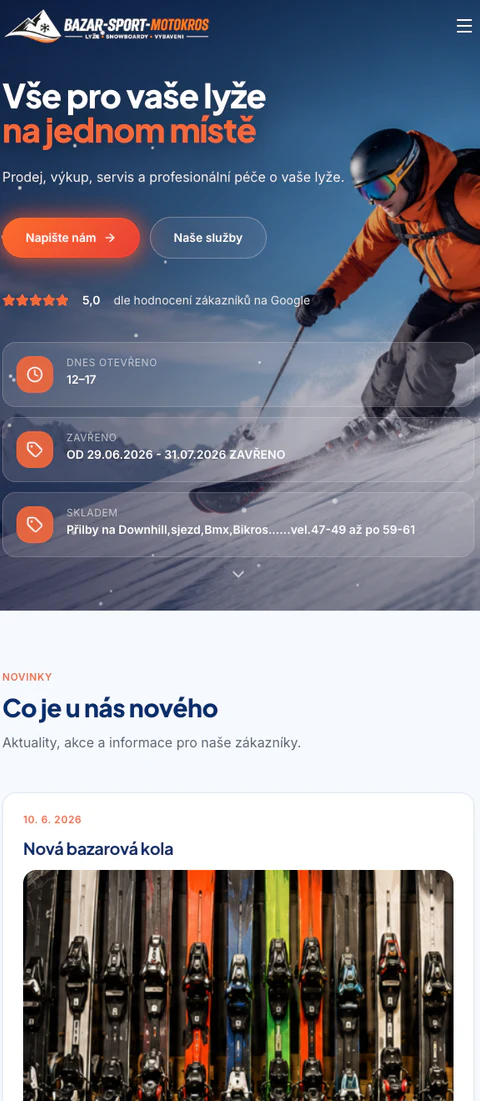
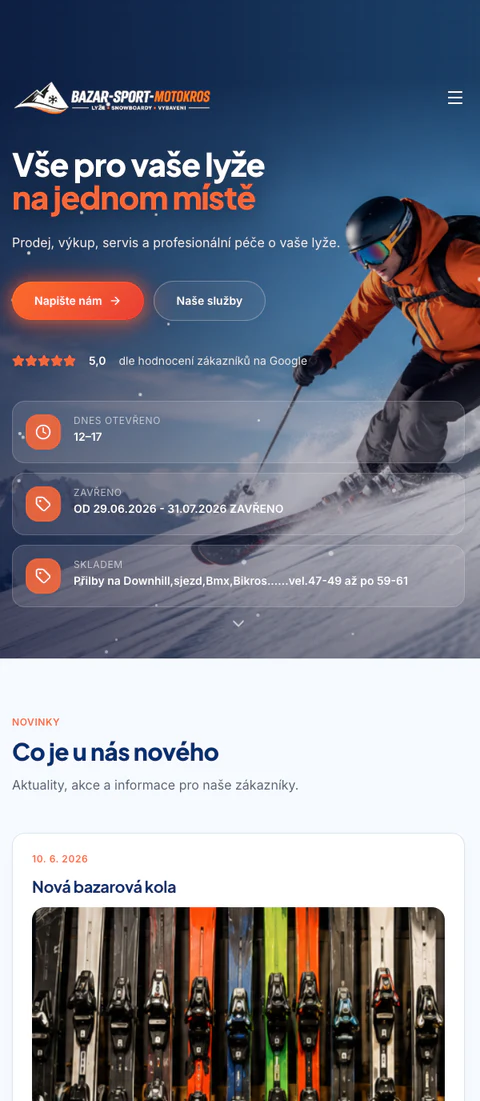
Version_3.96

diff --git a/src/screens/AiLandingPage/sections/PrototypeShowcaseSection/PrototypeShowcaseSection.tsx b/src/screens/AiLandingPage/sections/PrototypeShowcaseSection/PrototypeShowcaseSection.tsx
@@ -23,15 +23,13 @@ type PreviewChrome = "on-dark" | "on-light";
 const PREVIEW_CHROME_FALLBACK: Record<string, PreviewChrome> = {
   profitherm: "on-dark",
   "black-beard": "on-dark",
-  dentio: "on-light",
-  "jan-novak": "on-dark",
-  "vas-financni-partner": "on-light",
   "bazar-sport-motokros": "on-light",
 };
 
 /** Per-prototype chrome pinned over thumbnail luminance detection. */
 const PREVIEW_CHROME_OVERRIDE: Partial<Record<string, PreviewChrome>> = {
   "bazar-sport-motokros": "on-light",
+  "black-beard": "on-dark",
 };
 
 const detectPreviewChromeFromImage = (imageId: string): Promise<PreviewChrome> =>
@@ -70,7 +68,6 @@ const detectPreviewChromeFromImage = (imageId: string): Promise<PreviewChrome> =
 
 type PrototypeCard = {
   title: string;
-  badge: string;
   description: string;
   imageId: string;
   previewUrl: string;
@@ -85,102 +82,48 @@ const isPreviewMobileScreen = (): boolean =>
 const cards: PrototypeCard[] = [
   {
     title: "Profitherm Solution",
-    badge: "Rekonstrukce",
     description:
       "Web zaměřený na dotační programy a rekonstrukce domů na klíč. Jasně vysvětluje služby, buduje důvěru a pomáhá přivádět kvalitní poptávky od majitelů nemovitostí.",
     imageId: "profitherm",
     previewUrl: "https://profithermsolution.cz/",
   },
   {
+    title: "TRIFER",
+    description:
+      "Web pro společnost zaměřenou na výrobu a montáž ocelových konstrukcí pro firmy i soukromé zákazníky. Moderní prezentace služeb s důrazem na získávání nových poptávek.",
+    imageId: "black-beard",
+    previewUrl: "https://laser-steel-structures.vercel.app/",
+  },
+  {
     title: "Bazar-Sport-Motokros",
-    badge: "Sport",
     description:
       "Web pro sportovní bazar se zaměřením hlavně na lyže a zimní výbavu, v létě doplněný o kola a cyklistiku. Přehledná nabídka sortimentu podle sezóny a snadný nákup pro aktivní zákazníky.",
     imageId: "bazar-sport-motokros",
     previewUrl: "https://ski-spot-landing.vercel.app/",
-  },
-  {
-    title: "Dentio",
-    badge: "Zubní ordinace",
-    description:
-      "Profesionální prezentace pro zubaře a dentální hygienisty. Přehledné služby, moderní vizuál a snadný kontakt pomáhají pacientům rychle objednat termín a posílit důvěru v ordinaci.",
-    imageId: "dentio",
-    previewUrl: "https://dentio.vercel.app/",
-  },
-  {
-    title: "Jan Novák",
-    badge: "Fitness",
-    description:
-      "Dynamický web zaměřený na osobní značku trenéra a získávání rezervací. Přehledné sekce, silný vizuál a důraz na výsledky klientů pomáhají zvýšit počet nových zájemců.",
-    imageId: "jan-novak",
-    previewUrl: "https://fitness-trainer-alpha.vercel.app/",
-  },
-  {
-    title: "Váš finanční partner",
-    badge: "Finance",
-    description:
-      "Web vytvořený pro profesionální prezentaci finančních služeb a budování důvěry. Pomáhá jednoduše vysvětlit nabídku a přivádět nové klienty přes kvalitní poptávky.",
-    imageId: "vas-financni-partner",
-    previewUrl: "https://financni-partner-demo.vercel.app/",
-  },
-  {
-    title: "Black Beard",
-    badge: "Barbershop",
-    description:
-      "Stylový web pro pánský barbershop s důrazem na atmosféru a řemeslo. Prezentuje služby, ceník a rezervace tak, aby zákazníci snadno našli termín a vraceli se pravidelně.",
-    imageId: "black-beard",
-    previewUrl: "https://black-beard-chi.vercel.app/",
   },
 ];
 
 const cardsEn: PrototypeCard[] = [
   {
     title: "Profitherm Solution",
-    badge: "Renovation",
     description:
       "A website focused on grant programs and turnkey home renovations. It explains services clearly, builds trust, and brings quality inquiries from property owners.",
     imageId: "profitherm",
     previewUrl: "https://profithermsolution.cz/",
   },
   {
+    title: "TRIFER",
+    description:
+      "A website for a company specializing in the manufacture and assembly of steel structures for businesses and private clients. A modern presentation of services focused on generating new inquiries.",
+    imageId: "black-beard",
+    previewUrl: "https://laser-steel-structures.vercel.app/",
+  },
+  {
     title: "Bazar-Sport-Motokros",
-    badge: "Sport",
     description:
       "A sports shop site focused mainly on skis and winter gear, with bikes and cycling equipment in summer. Clear seasonal ranges and straightforward shopping for active customers year-round.",
     imageId: "bazar-sport-motokros",
     previewUrl: "https://ski-spot-landing.vercel.app/",
-  },
-  {
-    title: "Dentio",
-    badge: "Dental",
-    description:
-      "A professional presentation for dentists and dental hygienists. Clear services, a modern look, and easy contact help patients book faster and trust the practice.",
-    imageId: "dentio",
-    previewUrl: "https://dentio.vercel.app/",
-  },
-  {
-    title: "Jan Novák",
-    badge: "Fitness",
-    description:
-      "A dynamic website focused on the trainer’s personal brand and booking growth. Strong visuals and clear sections help turn visitors into new inquiries.",
-    imageId: "jan-novak",
-    previewUrl: "https://fitness-trainer-alpha.vercel.app/",
-  },
-  {
-    title: "Your financial partner",
-    badge: "Finance",
-    description:
-      "A website built for a professional financial services presentation and trust-building. It explains the offer clearly and brings new clients through high-quality inquiries.",
-    imageId: "vas-financni-partner",
-    previewUrl: "https://financni-partner-demo.vercel.app/",
-  },
-  {
-    title: "Black Beard",
-    badge: "Barbershop",
-    description:
-      "A stylish website for a men’s barbershop with a focus on atmosphere and craft. It showcases services, pricing, and booking so clients find a slot and keep coming back.",
-    imageId: "black-beard",
-    previewUrl: "https://black-beard-chi.vercel.app/",
   },
 ];
 
@@ -223,7 +166,6 @@ const PrototypeShowcaseMobileCard = ({
       </div>
       <div className="prototype-mobile-heading">
         <h3 className="prototype-mobile-title">{card.title}</h3>
-        <span className="prototype-item-badge">{card.badge}</span>
       </div>
       <p className="prototype-mobile-body">{card.description}</p>
     </article>
@@ -268,7 +210,6 @@ const PrototypeShowcaseItem = ({
       </div>
       <div className="prototype-item-heading">
         <h3 className="prototype-item-title">{card.title}</h3>
-        <span className="prototype-item-badge">{card.badge}</span>
       </div>
       <p className="prototype-item-desc">{card.description}</p>
     </article>
@@ -280,9 +221,9 @@ export const PrototypeShowcaseSection = (): JSX.Element => {
   const isEn = language === "en";
   const t = isEn
     ? {
-        heading: "Get a free website design in 3 days",
+        heading: "Completed website showcases",
         subheading:
-          "Browse sample prototypes and get a sense of the quality you'll receive free of charge within 3 days. I'll create your design tailored to your business, and if you're happy with it, I'll turn it into a professional website ready to represent your brand at the highest level.",
+          "Real projects from concept to launch. Every website is designed for a specific business and its customers.",
         previewBack: "Back to showcase",
         previewBackShort: "Back",
         viewportDesktop: "Desktop layout",
@@ -291,9 +232,9 @@ export const PrototypeShowcaseSection = (): JSX.Element => {
         previewHint: "Tap for preview",
       }
     : {
-        heading: "Návrh webu zdarma do 3 dnů",
+        heading: "Ukázky hotových webů",
         subheading:
-          "Prohlédněte si ukázkové prototypy a udělejte si představu o kvalitě zpracování, kterou zdarma získáte do 3 dnů. Váš návrh vytvořím na míru vašemu podnikání a pokud budete spokojeni, proměním jej v profesionální web připravený reprezentovat vaši značku na nejvyšší úrovni.",
+          "Ukázky reálných projektů od návrhu až po finální spuštění. Každý web navrhujeme na míru konkrétnímu podnikání a jeho zákazníkům.",
         previewBack: "Zpět na ukázky",
         previewBackShort: "Zpět",
         viewportDesktop: "Rozložení pro počítač",
@@ -521,7 +462,7 @@ export const PrototypeShowcaseSection = (): JSX.Element => {
           </div>
           </div>
 
-          <div className="prototype-mobile-dots" role="tablist" aria-label={isEn ? "Prototype slides" : "Prototypy"}>
+          <div className="prototype-mobile-dots" role="tablist" aria-label={isEn ? "Website showcases" : "Ukázky webů"}>
             {activeCards.map((_, i) => (
               <button
                 key={i}
@@ -619,7 +560,12 @@ export const PrototypeShowcaseSection = (): JSX.Element => {
             padding-top: 30px !important;
           }
           .prototype-section-sub{
-            max-width: 100%;
+            max-width: 820px;
+          }
+          .prototype-grid{
+            gap: 40px;
+            max-width: 1280px;
+            margin: 0 auto;
           }
         }
         .prototype-grid{
@@ -643,6 +589,7 @@ export const PrototypeShowcaseSection = (): JSX.Element => {
           cursor: pointer;
           -webkit-tap-highlight-color: transparent;
           transition: transform 0.45s cubic-bezier(0.22, 1, 0.36, 1);
+          text-align: center;
         }
         @media (min-width: 901px) {
           .prototype-grid-desktop .prototype-item{
@@ -716,7 +663,7 @@ export const PrototypeShowcaseSection = (): JSX.Element => {
         .prototype-item-heading{
           display: flex;
           align-items: center;
-          justify-content: space-between;
+          justify-content: center;
           gap: 12px;
           width: 100%;
         }
@@ -728,26 +675,9 @@ export const PrototypeShowcaseSection = (): JSX.Element => {
           line-height: 1.2;
           letter-spacing: -0.02em;
           color: var(--pk-ink);
-          text-align: left;
+          text-align: center;
           flex: 1 1 auto;
           min-width: 0;
-        }
-        .prototype-item-badge{
-          flex: 0 0 auto;
-          display: inline-flex;
-          align-items: center;
-          justify-content: center;
-          padding: 6px 12px;
-          border-radius: 999px;
-          font-family: "Montserrat", sans-serif;
-          font-weight: 700;
-          font-size: 12px;
-          line-height: 1;
-          letter-spacing: 0.02em;
-          color: var(--pk-ink);
-          background: var(--pk-slate-tint-06);
-          border: 1px solid var(--pk-slate-tint-16);
-          white-space: nowrap;
         }
         .prototype-item-desc{
           margin: 0;
@@ -756,7 +686,7 @@ export const PrototypeShowcaseSection = (): JSX.Element => {
           font-size: 14px;
           line-height: 1.65;
           color: var(--pk-ink);
-          text-align: left;
+          text-align: center;
         }
         .prototype-preview-overlay{
           position: fixed;
@@ -1041,7 +971,7 @@ export const PrototypeShowcaseSection = (): JSX.Element => {
               0 4px 12px rgb(15 23 42 / 0.07);
             cursor: pointer;
             -webkit-tap-highlight-color: transparent;
-            text-align: left;
+            text-align: center;
           }
           .prototype-mobile-card:focus-visible{
             outline: 2px solid var(--pk-accent);
@@ -1124,7 +1054,7 @@ export const PrototypeShowcaseSection = (): JSX.Element => {
           .prototype-mobile-heading{
             display: flex;
             align-items: center;
-            justify-content: space-between;
+            justify-content: center;
             gap: 10px;
             margin: 0 0 8px;
           }
@@ -1138,7 +1068,7 @@ export const PrototypeShowcaseSection = (): JSX.Element => {
             color: var(--pk-ink);
             flex: 1 1 auto;
             min-width: 0;
-            text-align: left;
+            text-align: center;
           }
           .prototype-mobile-body{
             margin: 0;
@@ -1147,6 +1077,7 @@ export const PrototypeShowcaseSection = (): JSX.Element => {
             font-size: 14px;
             line-height: 1.55;
             color: var(--pk-ink);
+            text-align: center;
           }
           .prototype-mobile-dots{
             display: flex;

diff --git a/src/screens/AiLandingPage/sections/MainHeroSection/HeroCompositeFrame.tsx b/src/screens/AiLandingPage/sections/MainHeroSection/HeroCompositeFrame.tsx
@@ -41,12 +41,29 @@ const shotLayerStyle: CSSProperties = {
   imageRendering: "auto",
 };
 
+/** Fit mobile shot to slot width; keep aspect ratio; pin to existing bottom edge. */
+const mobileShotLayerStyle: CSSProperties = {
+  position: "absolute",
+  left: 0,
+  bottom: 0,
+  top: "auto",
+  width: "100%",
+  height: "auto",
+  maxWidth: "none",
+  pointerEvents: "none",
+  transition: `opacity ${FADE_MS}ms cubic-bezier(0.4, 0, 0.2, 1)`,
+  willChange: "opacity",
+  transform: "translateZ(0)",
+  backfaceVisibility: "hidden",
+  imageRendering: "auto",
+  clipPath: "inset(0 0 10px 0)",
+};
+
 type HeroScreenCarouselProps = {
   projectIds: readonly string[];
   variant: "desktop" | "mobile";
   activeIdx: number;
   className?: string;
-  objectFit?: "cover" | "contain";
 };
 
 /** Crossfades screenshots inside one frame cutout (index controlled by parent for sync). */
@@ -55,7 +72,6 @@ const HeroScreenCarousel = ({
   variant,
   activeIdx,
   className,
-  objectFit = "cover",
 }: HeroScreenCarouselProps): JSX.Element | null => {
   if (projectIds.length === 0) return null;
 
@@ -64,6 +80,7 @@ const HeroScreenCarousel = ({
   const widths = isDesktop ? HERO_DESKTOP_WIDTHS : HERO_MOBILE_WIDTHS;
   const sizes = isDesktop ? HERO_DESKTOP_SIZES : HERO_MOBILE_SIZES;
   const intrinsic = isDesktop ? HERO_DESKTOP_INTRINSIC : HERO_MOBILE_INTRINSIC;
+  const layerStyle = isDesktop ? shotLayerStyle : mobileShotLayerStyle;
 
   return (
     <>
@@ -77,9 +94,8 @@ const HeroScreenCarousel = ({
           height={intrinsic.height}
           className={className}
           style={{
-            ...shotLayerStyle,
-            objectFit,
-            objectPosition: isDesktop ? "top center" : "center center",
+            ...layerStyle,
+            ...(isDesktop ? { objectFit: "cover", objectPosition: "top center" } : null),
             opacity: i === activeIdx ? 1 : 0,
             zIndex: i === activeIdx ? 2 : 1,
           }}
@@ -172,7 +188,6 @@ export const HeroCompositeFrame = memo(function HeroCompositeFrame({
           variant="mobile"
           activeIdx={safeIdx}
           className="hero-project-shot hero-project-shot--phone"
-          objectFit="contain"
         />
       </div>
       <img

diff --git a/src/screens/AiLandingPage/sections/MainHeroSection/heroPreviewAssets.ts b/src/screens/AiLandingPage/sections/MainHeroSection/heroPreviewAssets.ts
@@ -33,4 +33,8 @@ export const heroMobileDefaultSrc = (projectId: string) =>
   webpDefaultSrc(heroMobileBasePath(projectId), 640);
 
 /** Carousel order in hero frame. */
-export const HERO_PROJECT_IDS = ["profitherm", "finance", "reality", "bazar-sport-motokros"] as const;
+export const HERO_PROJECT_IDS = [
+  "profitherm",
+  "bazar-sport-motokros",
+  "black-beard",
+] as const;
